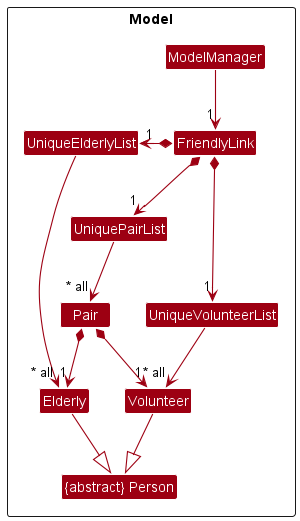
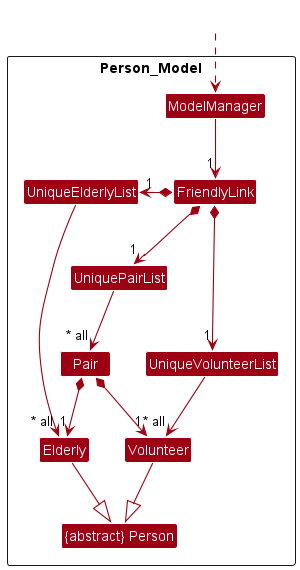
Update Developer Guide Model diagram

Changed region(s): [[0.03, 0.0, 0.99, 1.0], [0.0, 0.0307, 0.03, 0.0921]]

diff --git a/docs/DeveloperGuide.md b/docs/DeveloperGuide.md
@@ -119,7 +119,7 @@ How the parsing works:
 ### Model component
 **API** : [`Model.java`](https://github.com/se-edu/addressbook-level3/tree/master/src/main/java/seedu/address/model/Model.java)
 
-<img src="images/ModelClassDiagram.png" width="450" />
+<img src="images/developerGuide/ModelDiagram.png" width="500" />
 ** TODO: update image **
 
 The `Model` component,
@@ -129,11 +129,15 @@ The `Model` component,
 * stores a `UserPref` object that represents the user’s preferences. This is exposed to the outside as a `ReadOnlyUserPref` objects.
 * depends on some classes in the `Storage` component (because the `Model` component requires `Storage` to save/retrieve objects that belong to the `Model`)
 
-<div markdown="span" class="alert alert-info">:information_source: **Note:** An alternative (arguably, a more OOP) model is given below. It has a `Tag` list in `FriendlyLink`, which `Person` (`Elderly` or `Volunteer`) references. This allows `FriendlyLink` to only require one `Tag` object per unique tag, instead of each `Person` needing their own `Tag` objects.<br>
 
-<img src="images/BetterModelClassDiagram.png" width="450" />
+This is the detailed implementation of `Person` in `Model`. 
+* Both `Elderly` and `Volunteer` inherit from the abstract class `Person`.
+* A `Pair` makes reference to one `Elderly` and one `Volunteer` each.
 
-</div>
+<br>
+
+<img src="images/developerGuide/PersonNew.png" width="250" />
+
 ** TODO: Update Image **
 
 ### Storage component
